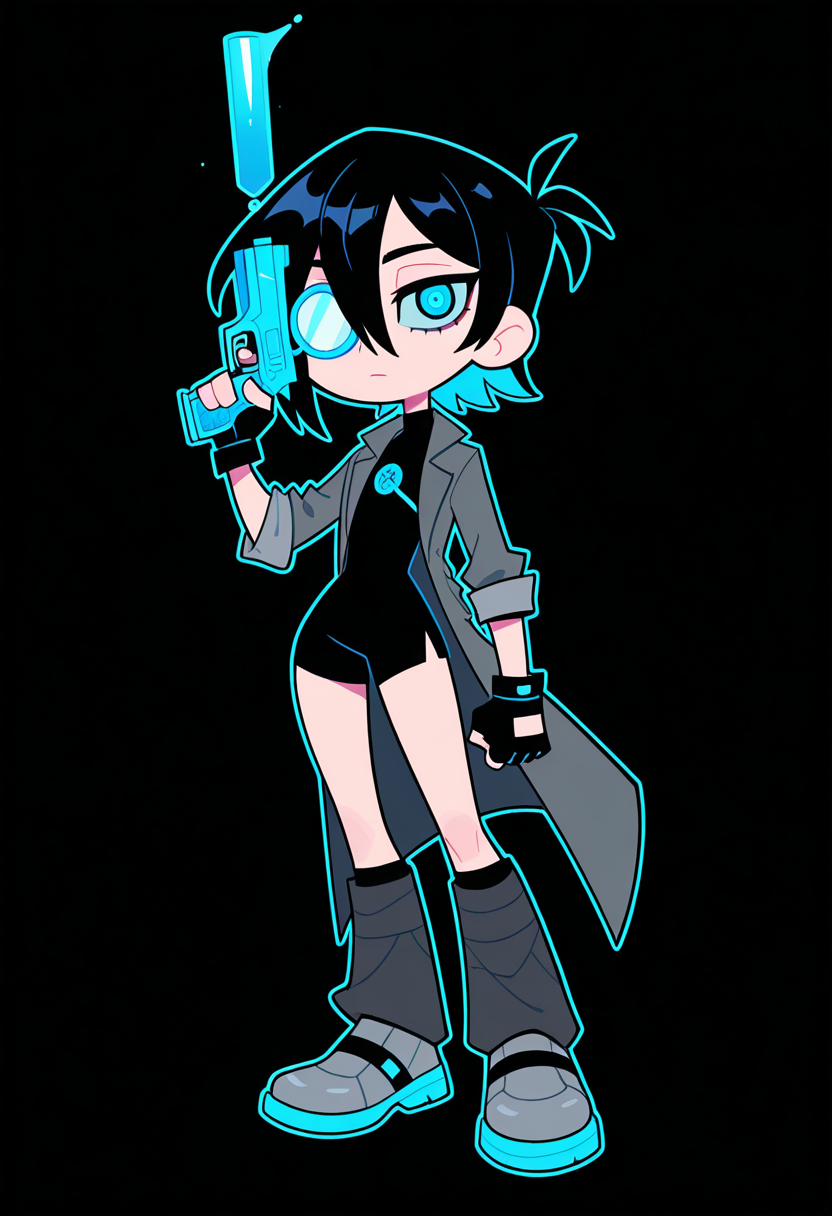
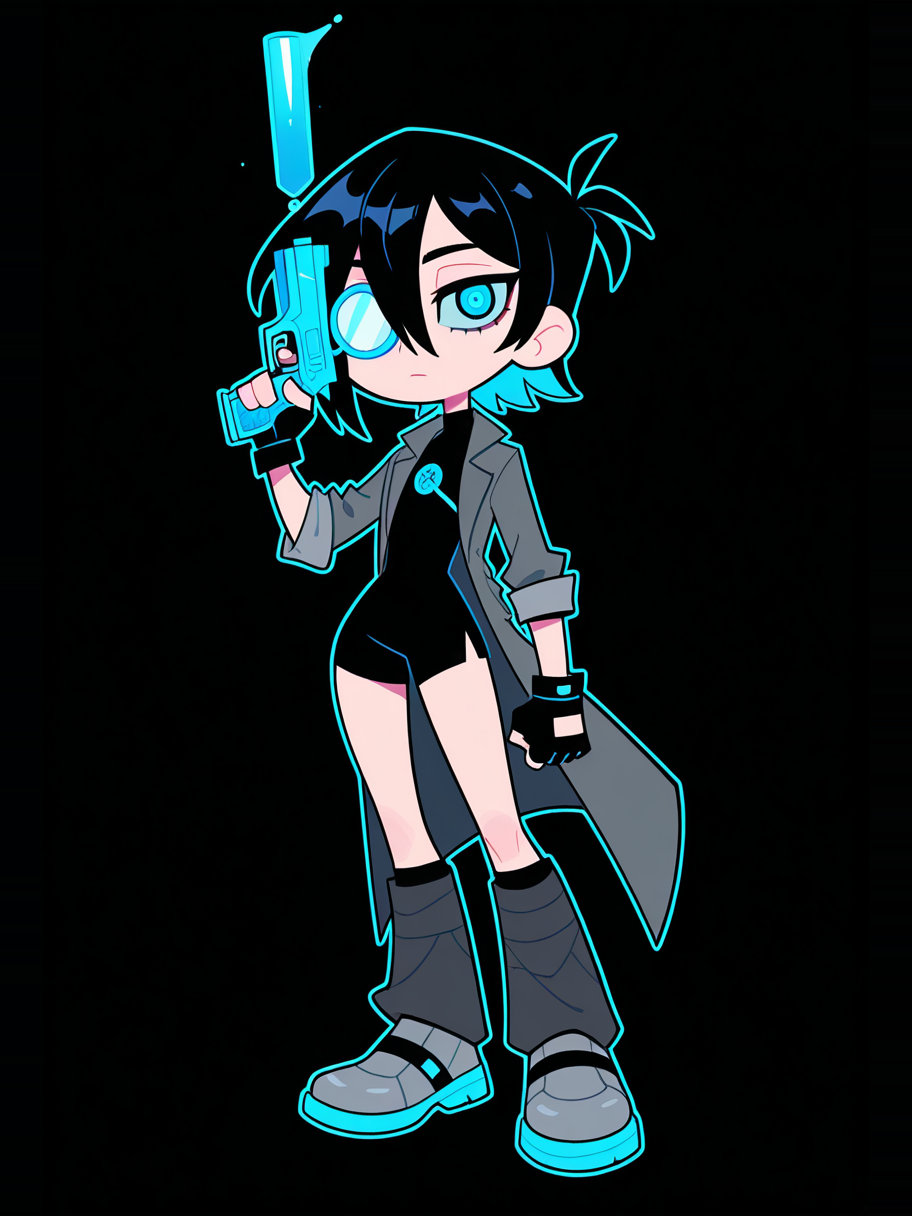
feat: メンバー画像を配置し、カード表示を全身イラスト向けに調整
images/avatars/:
- 生成画像 8 枚を 832x1216 から 912x1216 へパディングし、カード枠の 3:4 に合わせた
- 余白は単色の黒ではなく端の画素を外側へ引き伸ばして埋めている。
  背景が完全な黒ではなく個体差があり（Reo は紫がかっている）、
  黒で埋めると継ぎ目が出るため

css/components.css:
- キャプテンカードの aspect-ratio を 5/4 から 3/4 に変更。横長枠に縦長画像を
  object-fit: cover で入れると高さの約 40% が失われ、全身イラストの頭と足が
  切れるため。760px 以下の 4/5 指定も同様に 3/4 へ統一
- .player__art の filter から grayscale(.35) を削除。ネオンの発色が
  ホバーするまで沈む状態だったため

data/members.json:
- photo のパスを member1.png 形式から実名ベース（kuni.png など）に変更。
  どのメンバーの画像か一目で分かるようにするため

Playwright で members.html を確認し、8 名すべての画像が読み込まれ、
プレースホルダ SVG に戻る個体がないこと、キャプテンカードで全身が
切れずに収まることを確認済み。

Claude-Session: https://claude.ai/code/session_016tu8EfKU6eYBVmY3TihuS2

Changed region(s): [[0.1875, 0.0, 0.7812, 0.9688], [0.5312, 0.0938, 0.5625, 0.125]]

diff --git a/css/components.css b/css/components.css
@@ -294,7 +294,7 @@ main { position: relative; z-index: 1; }
   background: var(--bg-3);
   clip-path: polygon(0 0, calc(100% - var(--cut)) 0, 100% var(--cut), 100% 100%, var(--cut) 100%, 0 calc(100% - var(--cut)));
 }
-.player__art { position: absolute; inset: 0; transition: transform 1.2s var(--ease), filter .8s; filter: grayscale(.35) contrast(1.05); }
+.player__art { position: absolute; inset: 0; transition: transform 1.2s var(--ease), filter .8s; filter: contrast(1.05); }
 .player__art svg, .player__art img { width: 100%; height: 100%; object-fit: cover; }
 .player__frame::before {
   content: ''; position: absolute; inset: 0; z-index: 2;
@@ -367,7 +367,7 @@ main { position: relative; z-index: 1; }
 .player::after { right: -6px; bottom: -6px; border-width: 0 2px 2px 0; transform: translate(-8px, -8px); }
 
 @media (hover: hover) {
-  .player:hover .player__art { transform: scale(1.08); filter: grayscale(0) contrast(1.1); }
+  .player:hover .player__art { transform: scale(1.08); filter: contrast(1.1); }
   .player:hover .player__frame::after { animation: scan 1.1s var(--ease-io); }
   .player:hover .player__no { color: var(--red); -webkit-text-stroke-color: var(--red); }
   .player:hover .player__games { max-height: 80px; opacity: 1; }
@@ -415,12 +415,12 @@ main { position: relative; z-index: 1; }
 
 /* Captains (members page) */
 .captains { display: grid; grid-template-columns: 1fr 1fr; gap: clamp(12px, 1.8vw, 24px); margin-bottom: clamp(56px, 8vw, 96px); }
-.player--captain .player__frame { aspect-ratio: 5 / 4; }
+.player--captain .player__frame { aspect-ratio: 3 / 4; }
 .player--captain .player__name { font-size: clamp(40px, 11cqi, 96px); }
 .player--captain .player__bio { color: #c9c9cc; font-size: 13px; line-height: 1.8; max-width: 34em; margin-bottom: 4px; display: -webkit-box; -webkit-line-clamp: 2; -webkit-box-orient: vertical; overflow: hidden; }
 @media (max-width: 760px) {
   .captains { grid-template-columns: 1fr; }
-  .player--captain .player__frame { aspect-ratio: 4 / 5; }
+  .player--captain .player__frame { aspect-ratio: 3 / 4; }
 }
 
 /* =============================================
